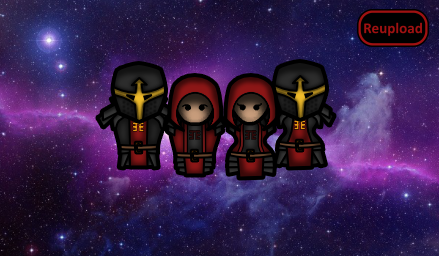
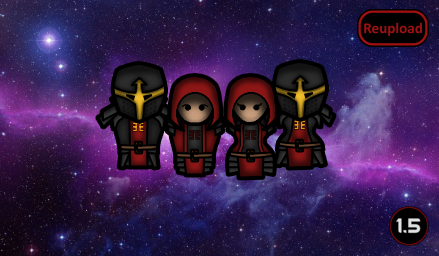
Mod updated for 1.5 and passed autotests

Changed region(s): [[0.8884, 0.7812, 0.9772, 0.9688]]

diff --git a/README.md b/README.md
@@ -57,11 +57,13 @@ Thaumcraft (a veteran Minecraft mod by Azanor) introduced to the Rimworld univer
 
 -  See if the the error persists if you just have this mod and its requirements active.
 -  If not, try adding your other mods until it happens again.
--  Post your error-log using https://steamcommunity.com/workshop/filedetails/?id=818773962]HugsLib and command Ctrl+F12
+-  Post your error-log using https://steamcommunity.com/workshop/filedetails/?id=818773962]HugsLib or the standalone https://steamcommunity.com/sharedfiles/filedetails/?id=2873415404]Uploader and command Ctrl+F12
 -  For best support, please use the Discord-channel for error-reporting.
 -  Do not report errors by making a discussion-thread, I get no notification of that.
 -  If you have the solution for a problem, please post it to the GitHub repository.
+-  Use https://github.com/RimSort/RimSort/releases/latest]RimSort to sort your mods
 
 
 
+https://steamcommunity.com/sharedfiles/filedetails/changelog/2397464835]![Image](https://img.shields.io/github/v/release/emipa606/O21Thaumrim?label=latest%20version&style=plastic&color=9f1111&labelColor=black)
 
